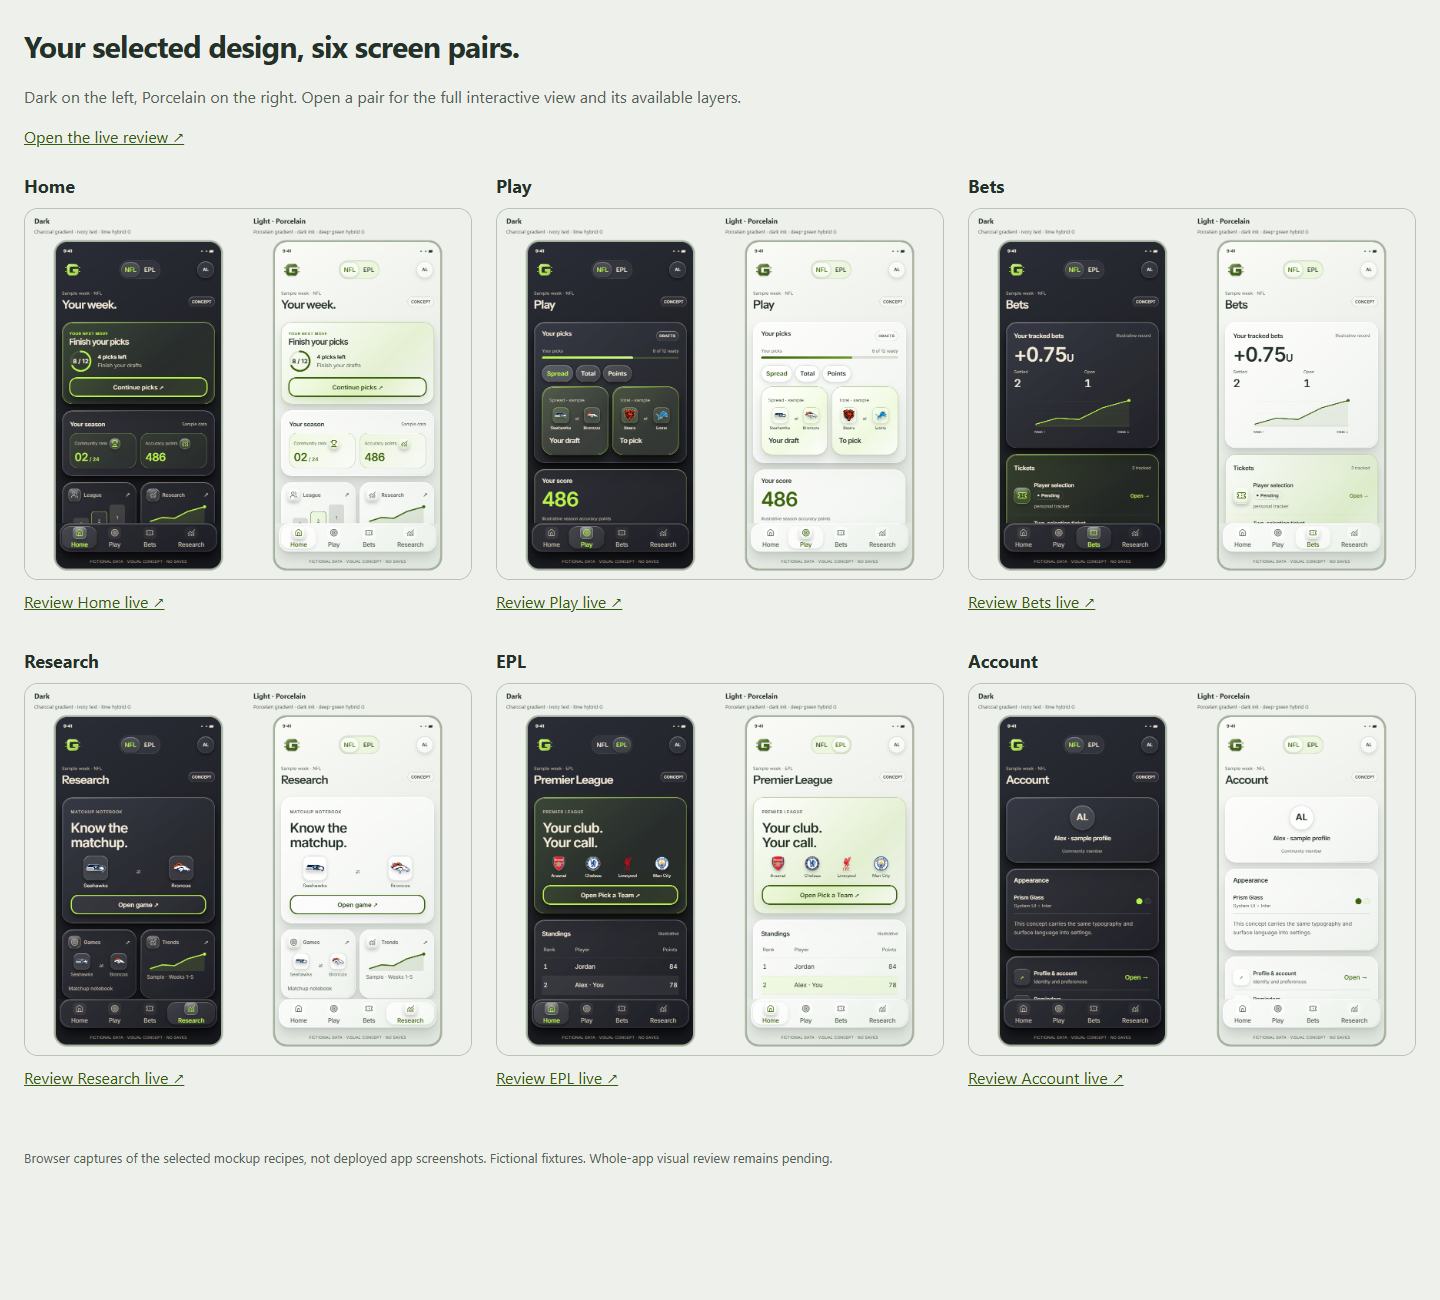
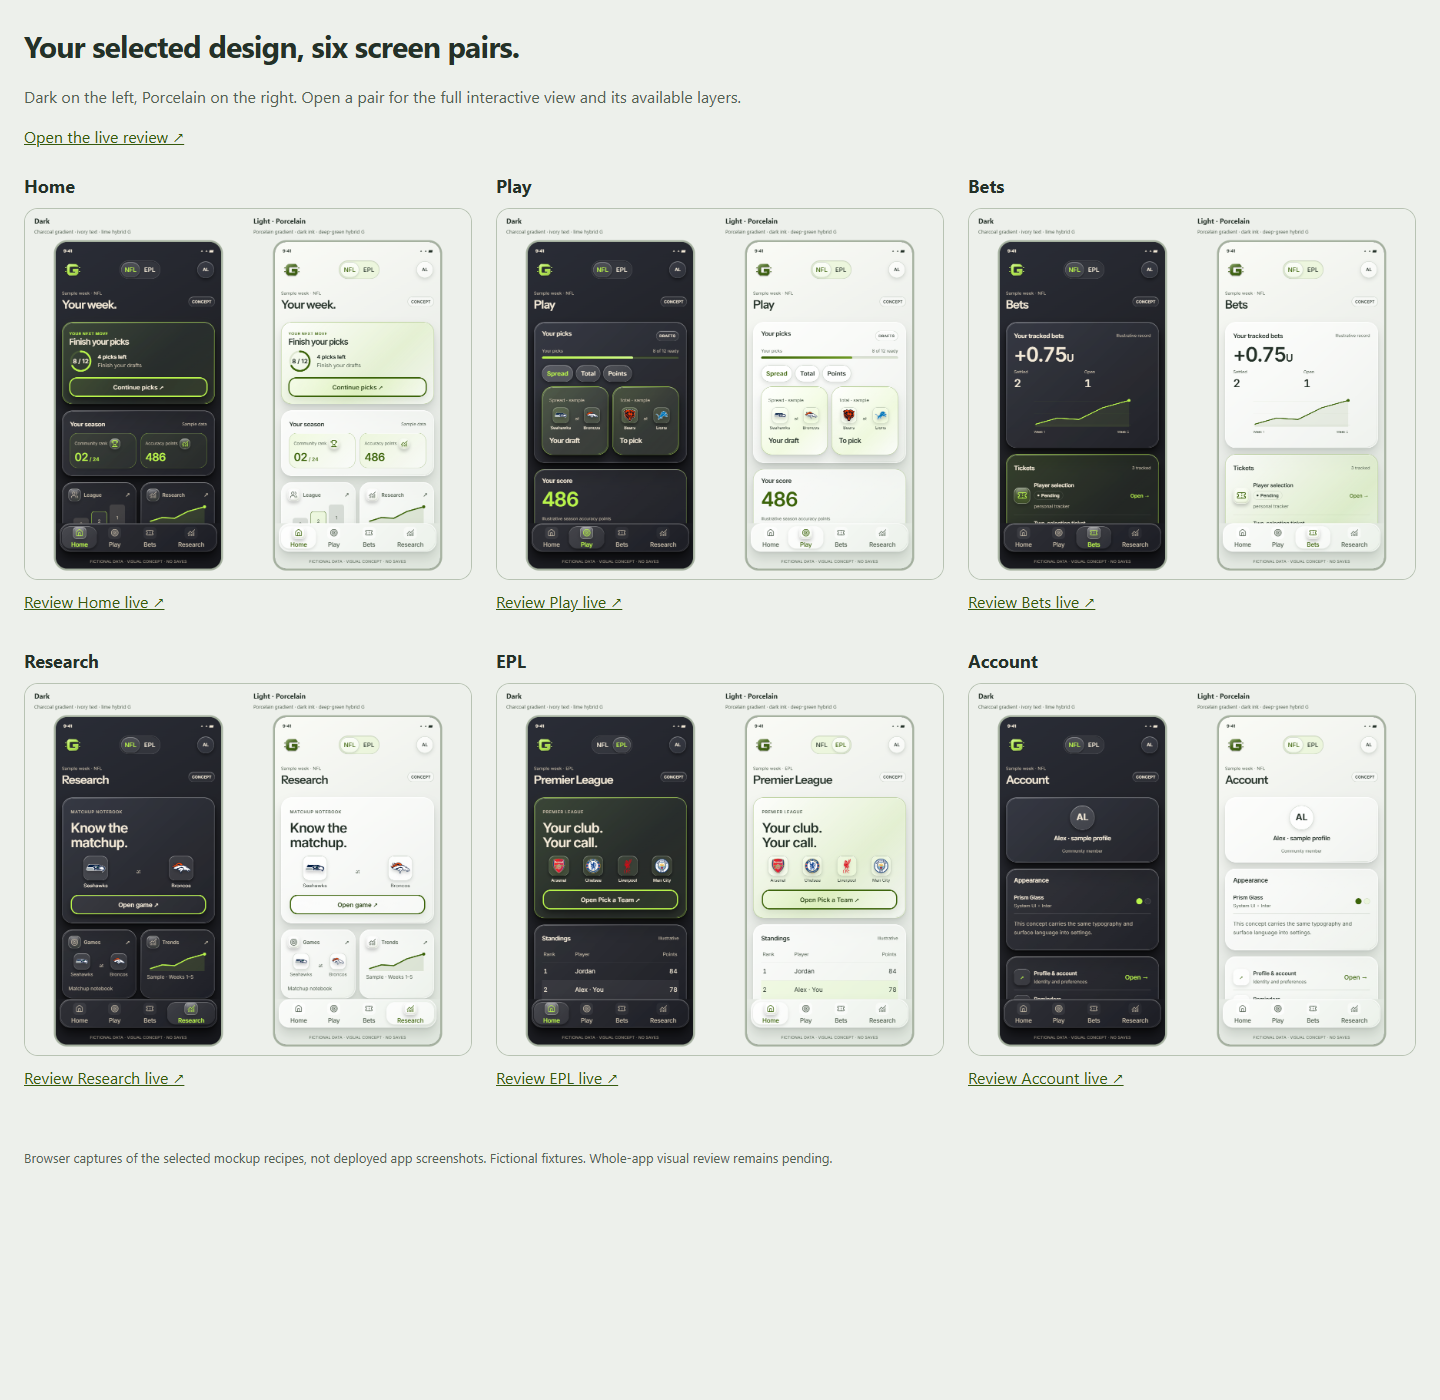
Give EPL club crests individual glass tiles

diff --git a/design/style-directions-2026-11-04/visual-content-review.js b/design/style-directions-2026-11-04/visual-content-review.js
@@ -25,6 +25,7 @@ const css=`
  .phone[data-visual-review] .home-hero{position:relative}.phone[data-visual-review] .home-hero h2{font-size:32px;line-height:1.08;max-width:210px;margin-bottom:12px}.phone[data-visual-review] .home-hero .ring{display:none}.visual-progress{display:flex;gap:18px;align-items:center;margin:14px 0}.visual-dial{width:90px;height:90px;position:relative;flex-shrink:0}.visual-dial svg{width:90px;height:90px;transform:rotate(-90deg)}.visual-dial circle{fill:none;stroke:var(--accent);stroke-width:7}.visual-dial circle:first-child{opacity:.13}.visual-dial circle:last-child{stroke-dasharray:159 239;stroke-linecap:round}.visual-dial b{position:absolute;inset:0;display:grid;place-items:center;font-size:21px;color:var(--ink)}.visual-progress>span{font-size:15px;line-height:1.6;color:var(--muted)}.visual-progress strong{color:var(--ink)}
  .visual-score-icon{display:inline-flex;vertical-align:middle;margin-left:5px}.visual-score-icon .visual-icon{width:28px;height:28px}.visual-score-icon svg{width:19px;height:19px}
  .visual-clubs{display:grid;grid-template-columns:repeat(4,minmax(0,1fr));gap:6px;margin:16px 0}.visual-clubs>span{display:flex;align-items:center;flex-direction:column;font-size:11px;gap:4px}.visual-clubs .team-mark{width:40px!important;height:40px!important}
+ .visual-clubs>span{min-width:0}.visual-clubs .team-logo-tile{display:grid;place-items:center;width:min(52px,100%);aspect-ratio:1;border-radius:14px;background:var(--pc-small-surface);border:1px solid var(--pc-border);box-shadow:inset 0 1px 0 var(--pc-edge-1),0 4px 8px var(--pc-shadow);backdrop-filter:blur(12px)}.visual-clubs .team-logo-tile .team-mark{max-width:80%;max-height:80%}
  .phone[data-visual-review] .content-pick{min-height:170px}.content-pick .visual-matchup .team-mark{width:44px;height:44px}.content-pick .visual-matchup>span{font-size:11px}.phone[data-visual-review] .content-pick>b{font-size:18px;margin:2px 0}
  .phone[data-play-logo-tiles] .content-pick .visual-matchup{background:transparent;box-shadow:none;gap:5px}.phone[data-play-logo-tiles] .content-pick .team-logo-tile{display:grid;place-items:center;width:42px;height:42px;border-radius:12px;background:var(--pc-small-surface);border:1px solid var(--pc-border);box-shadow:inset 0 1px 0 var(--pc-edge-1),0 4px 8px var(--pc-shadow);backdrop-filter:blur(12px)}.phone[data-play-logo-tiles] .content-pick .team-logo-tile .team-mark{width:34px;height:34px}.phone[data-play-logo-tiles] .content-pick .visual-matchup>span{min-width:0}
  .phone[data-visual-review] .visual-ticket-row{gap:10px;align-items:center}.phone[data-visual-review] .visual-ticket-row>.team-code{background:transparent!important;border:0!important;box-shadow:none!important;flex:0 0 42px}.phone[data-visual-review] .visual-ticket-row>.team-code:before,.phone[data-visual-review] .visual-ticket-row>.team-code:after{display:none!important}.visual-ticket-row .row-text{min-width:0}.visual-ticket-row .ticket-status{display:inline-flex;align-items:center;gap:5px;width:fit-content;padding:3px 8px;margin:5px 0;border:1px solid var(--pc-line);border-radius:99px;color:var(--ink);font-size:12px;font-weight:600;line-height:1.3}.ticket-status:before{content:"";width:5px;height:5px;border-radius:50%;background:currentColor}.visual-ticket-row .ticket-status.is-settled{color:var(--accent);border-color:color-mix(in srgb,var(--accent) 45%,transparent);background:color-mix(in srgb,var(--accent) 9%,transparent)}.phone[data-visual-review] .visual-ticket-row .quiet{min-height:44px;flex-shrink:0;padding-inline:5px;font-size:13px}
@@ -64,7 +65,7 @@ function apply(frame){
  if(area==='Research'){const h=screen.querySelector('.hero h2');if(h)h.textContent='Know the matchup.';matchupTiles(screen,d);}
  if(area==='Bets')screen.querySelectorAll('.match-row').forEach(row=>{if(!row.querySelector('[data-action="detail:ticket"]'))return;const caption=row.querySelector('.row-text small'),status=caption?.textContent.split(' · ')[0];if(!['Pending','Settled'].includes(status))return;row.classList.add('visual-ticket-row');row.querySelector('.team-code').innerHTML=glyph('ticket');const badge=d.createElement('span');badge.className='ticket-status is-'+status.toLowerCase();badge.textContent=status;row.querySelector('.row-text strong').after(badge);caption.textContent=caption.textContent.split(' · ').slice(1).join(' · ');});
  if(area==='Bets')matchupTiles(screen,d);
- if(area==='EPL'){const hero=screen.querySelector('.hero');if(hero){hero.querySelector('p')?.remove();const clubs=d.createElement('div');clubs.className='visual-clubs';clubs.innerHTML=['ARS','CHE','LIV','MNC'].map((c,i)=>'<span>'+logo(c,['Arsenal','Chelsea','Liverpool','Man City'][i])+'</span>').join('');hero.insertBefore(clubs,hero.querySelector('.primary'));}}
+ if(area==='EPL'){const hero=screen.querySelector('.hero');if(hero){hero.querySelector('p')?.remove();const clubs=d.createElement('div');clubs.className='visual-clubs';clubs.innerHTML=['ARS','CHE','LIV','MNC'].map((c,i)=>'<span>'+logo(c,['Arsenal','Chelsea','Liverpool','Man City'][i])+'</span>').join('');clubs.querySelectorAll('.team-mark').forEach(img=>{const tile=d.createElement('span');tile.className='team-logo-tile';img.before(tile);tile.append(img);});hero.insertBefore(clubs,hero.querySelector('.primary'));}}
 }
 fetch('visual-assets/lucide-icons.json').then(r=>r.json()).then(data=>{
  icons=data;

diff --git a/docs/COMPLETION_REGISTER.md b/docs/COMPLETION_REGISTER.md
@@ -1,5 +1,21 @@
 # Guess The Line — current completion register
 
+## Individual EPL crest tiles prepared for review — November 5, 2026
+
+Sean replied "Good" to the recommendation to apply individual glass tiles to
+EPL's four example club crests. Each unchanged crest now has its own responsive
+glass tile, up to 52px square, with its club name outside. The shared layout is
+transparent. [Dark phone capture](../design/style-directions-2026-11-04/previews/epl-crest-tiles-dark-phone.png)
+and [light phone capture](../design/style-directions-2026-11-04/previews/epl-crest-tiles-light-phone.png)
+were inspected; paired/gallery captures were refreshed. Chromium verified eight
+independent tile backgrounds, loaded marks, image/tile containment and overflow
+at 320/390/768/1440px in both themes. Six native Pick a Team/Fantasy/Turn queue
+opens passed, with original three-row sample standings preserved. JavaScript
+syntax and Brand document QA passed. Phone captures use extended presentation
+height and do not establish physical-device acceptance. Visual approval remains
+pending; production, deferred features and parked Signal files are unchanged.
+
+
 ## EPL overview prepared for phone review — November 5, 2026
 
 Sean authorized reviewing EPL with previews delivered directly in chat. Current

diff --git a/design/style-directions-2026-11-04/README.md b/design/style-directions-2026-11-04/README.md
@@ -3,6 +3,22 @@
 Owner: Sean Balsiger · Version 31 · November 4, 2026
 
 
+## Individual EPL crest tiles prepared for review — November 5, 2026
+
+Sean replied "Good" to the recommendation to apply individual glass tiles to
+EPL's four example club crests. Each unchanged crest now has its own responsive
+glass tile, up to 52px square, with its club name outside. The shared layout is
+transparent. [Dark phone capture](previews/epl-crest-tiles-dark-phone.png)
+and [light phone capture](previews/epl-crest-tiles-light-phone.png)
+were inspected; paired/gallery captures were refreshed. Chromium verified eight
+independent tile backgrounds, loaded marks, image/tile containment and overflow
+at 320/390/768/1440px in both themes. Six native Pick a Team/Fantasy/Turn queue
+opens passed, with original three-row sample standings preserved. JavaScript
+syntax and Brand document QA passed. Phone captures use extended presentation
+height and do not establish physical-device acceptance. Visual approval remains
+pending; production, deferred features and parked Signal files are unchanged.
+
+
 ## Individual logo tiles in Bets Recommended card — November 5, 2026
 
 Sean authorized separate glass backgrounds for each Recommended matchup logo.
